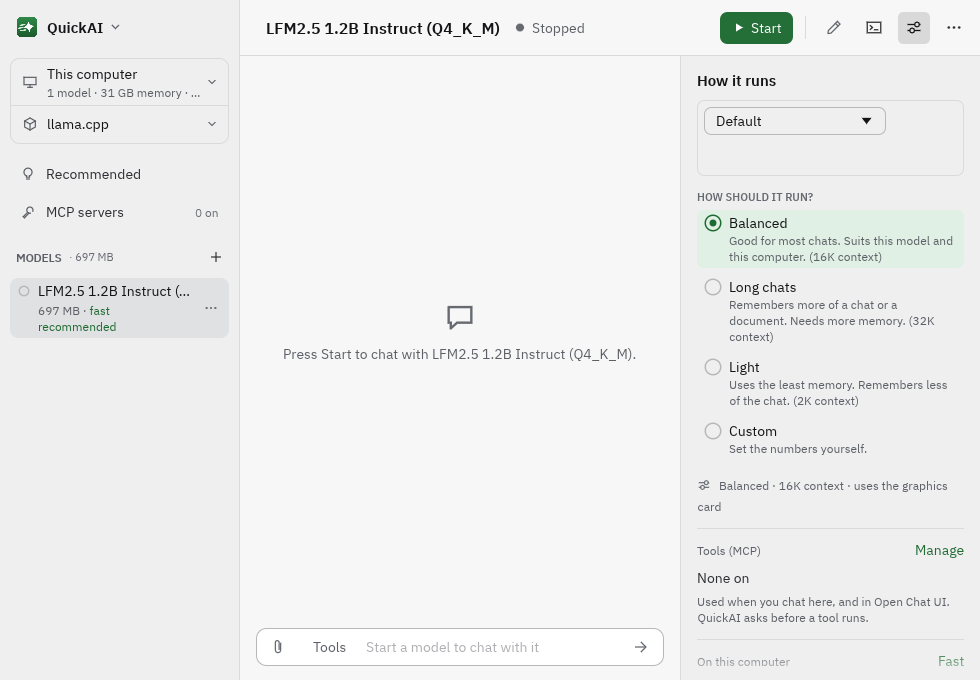
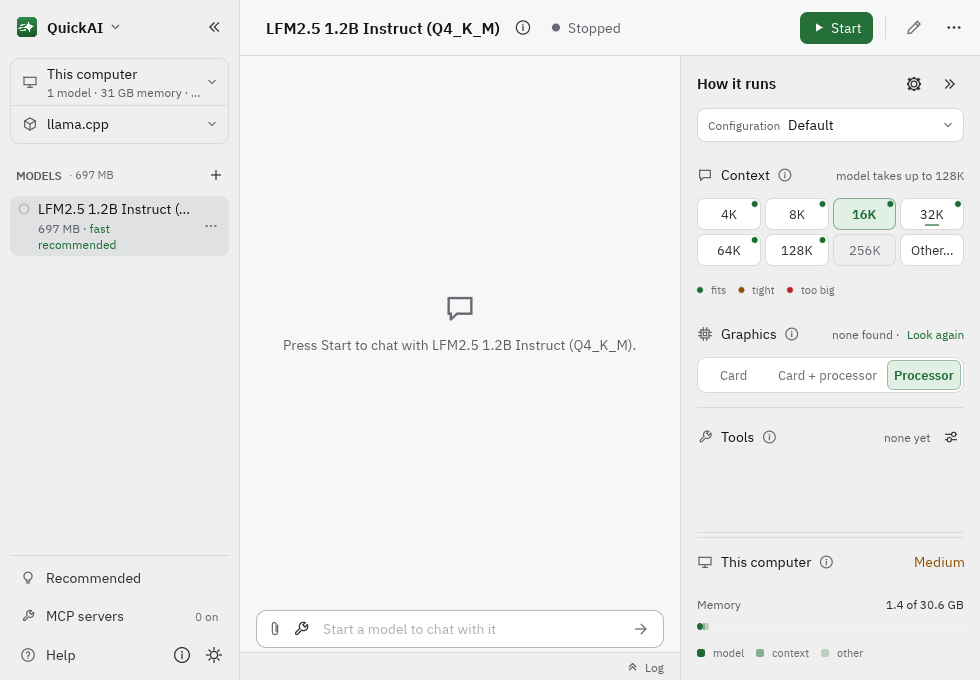
Help shows the window as it is now (C212)
The pictures are taken again (the sidebar's foot, the bar, the panel's
Context, Graphics, Tools and This computer, the log's strip, the wrench of
the chat's box), and the picture script clicks where things now are. The
marks follow; the panel's page has a mark for Context, Graphics, Tools and
the configuration, and the texts say where the port went (the gear of the
panel), the switches of Tools and Card + processor.

diff --git a/crates/quickai/src/app/help.rs b/crates/quickai/src/app/help.rs
@@ -218,7 +218,7 @@ const PAGES: &[Page] = &[
         lead: "Three steps to a first answer from a model that runs on this computer.",
         picture: Some(Picture {
             name: "main",
-            marks: &[(1, 165.0, 124.0), (2, 188.0, 257.0), (3, 703.0, 28.0)],
+            marks: &[(1, 165.0, 124.0), (2, 188.0, 175.0), (3, 776.0, 28.0)],
             ring: None,
         }),
         steps: &[
@@ -280,7 +280,7 @@ const PAGES: &[Page] = &[
         lead: "Talk to the model that runs, and give it a picture or a document to read.",
         picture: Some(Picture {
             name: "chat",
-            marks: &[(2, 420.0, 647.0), (3, 37.0, 612.0), (4, 450.0, 229.0), (5, 714.0, 52.0)],
+            marks: &[(2, 420.0, 629.0), (3, 34.0, 596.0), (4, 640.0, 240.0), (5, 673.0, 52.0)],
             ring: None,
         }),
         steps: &[
@@ -308,8 +308,8 @@ const PAGES: &[Page] = &[
                works with OpenAI's API can talk to it.",
         picture: Some(Picture {
             name: "connect",
-            marks: &[(1, 233.0, 66.0), (2, 85.0, 162.0), (3, 75.0, 230.0), (4, 165.0, 568.0)],
-            ring: Some([218.0, 12.0, 32.0, 32.0]),
+            marks: &[(1, 233.0, 84.0), (2, 85.0, 171.0), (3, 75.0, 239.0), (4, 165.0, 576.0)],
+            ring: Some([247.0, 68.0, 32.0, 32.0]),
         }),
         steps: &[
             step(
@@ -395,7 +395,8 @@ const PAGES: &[Page] = &[
             .does(Deed::Tools),
             step(
                 "Start a model and chat. The wrench in the chat's box has how many servers the model may use in its \
-                 corner; press it to switch each on or off.",
+                 corner; press it to switch each on or off. **Tools** in the panel at the right has a switch for each \
+                 too.",
             ),
             step(
                 "When the model wants a tool, a card shows what it would be given: press **Allow once**, **Always \
@@ -441,7 +442,13 @@ const PAGES: &[Page] = &[
         lead: "A configuration is a model and how it runs, kept under a name, to use again or to give to someone.",
         picture: Some(Picture {
             name: "change",
-            marks: &[(1, 233.0, 64.0), (2, 140.0, 287.0), (3, 264.0, 155.0)],
+            marks: &[
+                (1, 180.0, 84.0),
+                (2, 126.0, 175.0),
+                (3, 132.0, 334.0),
+                (4, 128.0, 437.0),
+                (5, 240.0, 125.0),
+            ],
             ring: None,
         }),
         steps: &[
@@ -494,8 +501,8 @@ const PAGES: &[Page] = &[
                 .does(Deed::Settings),
             step("**Program**: the builds of the engine's program. Use another, look up a newer one, or use your own."),
             step(
-                "**Starting it**: what the program is given besides what QuickAI gives it, and the whole command \
-                 line Start runs.",
+                "**Starting it**: the port, what the program is given besides what QuickAI gives it, and the whole \
+                 command line Start runs. The gear at the top of the panel opens this page.",
             ),
             step("**MCP servers**: the servers whose tools a model may use, as on **MCP servers** in the sidebar."),
             step("**Other computers**: whether QuickAI may set up a computer you add, to run models there."),
@@ -537,7 +544,7 @@ const PAGES: &[Page] = &[
         lead: "A model is quick when it fits in the memory of the graphics card, or of the computer.",
         picture: Some(Picture {
             name: "change",
-            marks: &[(1, 100.0, 367.0)],
+            marks: &[(1, 24.0, 214.0)],
             ring: None,
         }),
         steps: &[
@@ -547,6 +554,10 @@ const PAGES: &[Page] = &[
                  the same one (Q4 rather than Q8).",
             ),
             step("**Add a model** suggests what fits this computer's memory.").does(Deed::AddModel),
+            step(
+                "**Graphics** in the panel: when the whole model does not fit on the card, **Card + processor** puts as \
+                 many of its layers on it as fit. **This computer**, at the foot of the panel, shows what it takes.",
+            ),
             step("Other programs that use the graphics card (a game, another model) leave it less room."),
         ],
         numbered: true,
